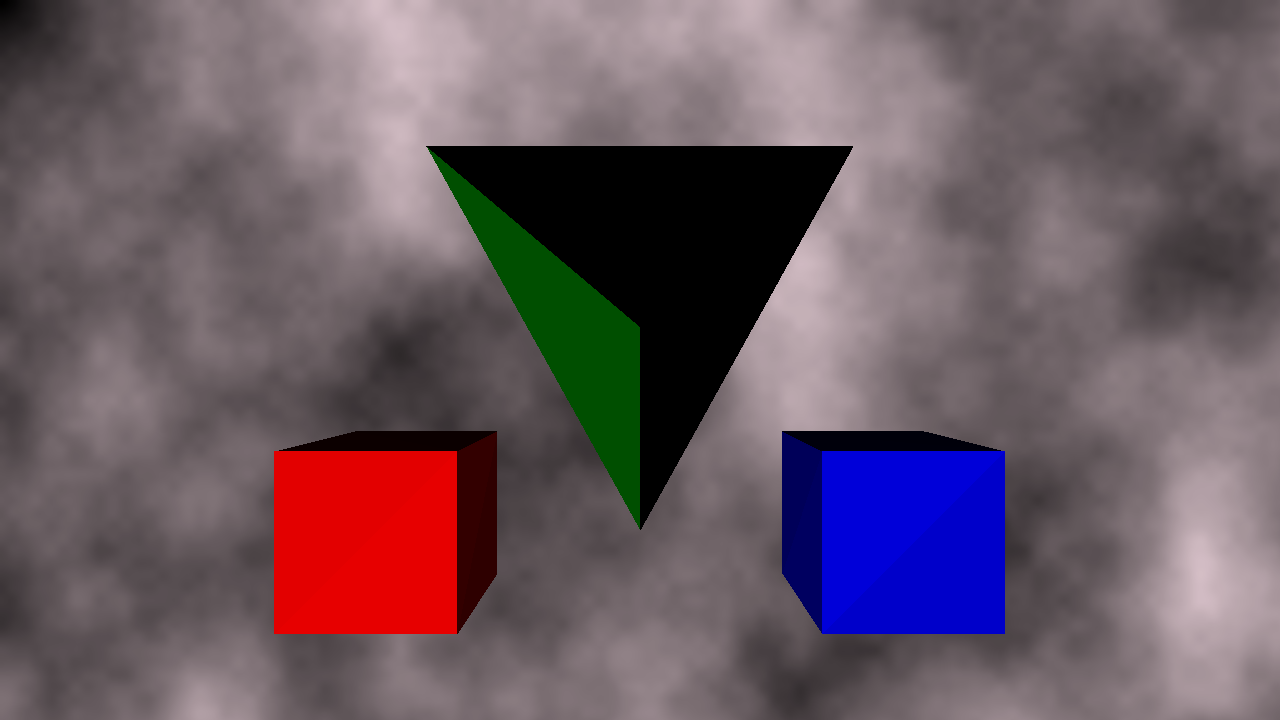
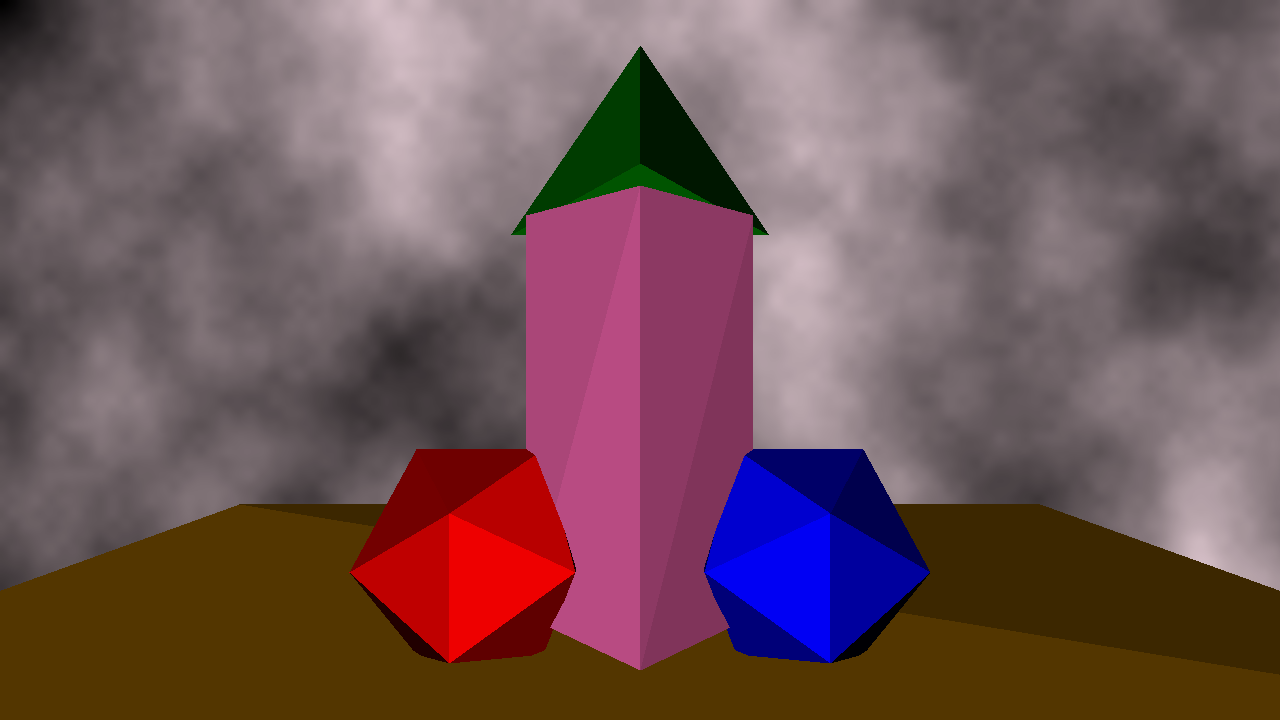
added dih

diff --git a/src/tests.c b/src/tests.c
@@ -3,6 +3,8 @@
 #include "color.h"
 #include "draw.h"
 #include "noise.h"
+#include "trans.h"
+#include "obj.h"
 
 void pink_shit(framebuffer *fb, mesh2 mesh)
 {
@@ -59,23 +61,53 @@ void blue_shit(framebuffer *fb, mesh2 mesh)
   drawTri2d(fb, mesh.tris[2], BLACK);
   fillTri2d(fb, mesh.tris[2], RGB(0, 59, 180));
 }
-  //   tri3 base[] = {
-  //       {{{-5.0f, -1.8f, 3.0f}, {-5.0f, -1.8f, 8.0f}, {5.0f, -1.8f, 3.0f}}},
-  //       {{{-5.0f, -1.8f, 8.0f}, {5.0f, -1.8f, 8.0f}, {5.0f, -1.8f, 3.0f}}}};
-  //   fillTri3d(&fb, &camera, base[0], HSV(220, 0.4f, 0.6f));
-  //   fillTri3d(&fb, &camera, base[1], HSV(220, 0.4f, 0.6f));
+//   tri3 base[] = {
+//       {{{-5.0f, -1.8f, 3.0f}, {-5.0f, -1.8f, 8.0f}, {5.0f, -1.8f, 3.0f}}},
+//       {{{-5.0f, -1.8f, 8.0f}, {5.0f, -1.8f, 8.0f}, {5.0f, -1.8f, 3.0f}}}};
+//   fillTri3d(&fb, &camera, base[0], HSV(220, 0.4f, 0.6f));
+//   fillTri3d(&fb, &camera, base[1], HSV(220, 0.4f, 0.6f));
 
-  //   tri3 tris[] = {
-  //       {{{3.0f, -1.8f, 5.0f}, {0.0f, 1.8f, 4.25f}, {-3.0f, -1.8f, 5.0f}}},
-  //       {{{-0.5f, -1.8f, 3.5f}, {0.0f, 1.8f, 4.25f}, {3.0f, -1.8f, 5.0f}}},
-  //       {{{-3.0f, -1.8f, 5.0f}, {0.0f, 1.8f, 4.25f}, {-0.5f, -1.8f, 3.5f}}},
-  //       {{{-0.5f, -1.8f, 3.5f}, {3.0f, -1.8f, 5.0f}, {-3.0f, -1.8f, 5.0f}}}};
-  //   mesh3 tetrahedron = {.tris = tris};
-  //   epic_3D_shit(&fb, &camera, tetrahedron, light);
+//   tri3 tris[] = {
+//       {{{3.0f, -1.8f, 5.0f}, {0.0f, 1.8f, 4.25f}, {-3.0f, -1.8f, 5.0f}}},
+//       {{{-0.5f, -1.8f, 3.5f}, {0.0f, 1.8f, 4.25f}, {3.0f, -1.8f, 5.0f}}},
+//       {{{-3.0f, -1.8f, 5.0f}, {0.0f, 1.8f, 4.25f}, {-0.5f, -1.8f, 3.5f}}},
+//       {{{-0.5f, -1.8f, 3.5f}, {3.0f, -1.8f, 5.0f}, {-3.0f, -1.8f, 5.0f}}}};
+//   mesh3 tetrahedron = {.tris = tris};
+//   epic_3D_shit(&fb, &camera, tetrahedron, light);
 
 void epic_3D_shit(framebuffer *fb, camera *camera, mesh3 mesh, vec3 light)
 {
   fillTri3d(fb, camera, mesh.tris[0], HSV(0, 0.49f, 0.67f));
   fillTri3d(fb, camera, mesh.tris[1], HSV(90, 0.60f, 0.67f));
   fillTri3d(fb, camera, mesh.tris[3], HSV(210, 0.70f, 0.67f));
+}
+
+void cock_n_balls(framebuffer *fb, camera *camera, vec3 light)
+{
+  fractal_fill(fb, HSV(340, 0.1f, 1.00f));
+  tri3 tris[] = {
+      {{{-5.0f, -1.8f, 3.0f}, {-5.0f, -1.8f, 8.0f}, {5.0f, -1.8f, 3.0f}}},
+      {{{-5.0f, -1.8f, 8.0f}, {5.0f, -1.8f, 8.0f}, {5.0f, -1.8f, 3.0f}}}};
+  mesh3 base = {.tris = tris, .count = sizeof(tris) / sizeof(tris[0])};
+  drawMesh3d(fb, camera, base, light, ORANGE);
+  mesh3 tip;
+  parse_obj("assets/tetra.obj", &tip);
+  moveMesh(&tip, 0.0, 0.9, 0);
+  rotateMeshEuler(&tip, 90, 0, 0);
+  drawMesh3d(fb, camera, tip, light, GREEN);
+  mesh3 cock;
+  parse_obj("assets/rectangle.obj", &cock);
+  moveMesh(&cock, 0, -0.6, 0);
+  rotateMeshEuler(&cock, 0, 45, 0);
+  drawMesh3d(fb, camera, cock, light, PINK);
+  mesh3 ball;
+  parse_obj("assets/icosphere.obj", &ball);
+  scaleMesh(&ball, 0.75, 0.75, 0.75);
+  moveMesh(&ball, -1, -1.2, 4);
+  drawMesh3d(fb, camera, ball, light, RED);
+  mesh3 ball_blue;
+  parse_obj("assets/icosphere.obj", &ball_blue);
+  scaleMesh(&ball_blue, 0.75, 0.75, 0.75);
+  moveMesh(&ball_blue, 1, -1.2, 4);
+  drawMesh3d(fb, camera, ball_blue, light, BLUE);
 }

diff --git a/src/trans.c b/src/trans.c
@@ -63,23 +63,10 @@ void moveMesh(mesh3 *mesh, float x_translate, float y_translate, float z_transla
   applyTransformation(mesh, matMove);
 }
 
-void rotateMesh(mesh3 *mesh, float attitude, float heading, float bank)
+void rotateMeshQuat(mesh3 *mesh, float w, float x, float y, float z)
 {
-
   vec3 centroid = getCentroid(mesh);
   moveMesh(mesh, -centroid.x, -centroid.y, -centroid.z);
-  float c1 = cosf(DEG_TO_RAD(heading) / 2);
-  float c2 = cosf(DEG_TO_RAD(bank) / 2);
-  float c3 = cosf(DEG_TO_RAD(attitude) / 2);
-  float s1 = sinf(DEG_TO_RAD(heading) / 2);
-  float s2 = sinf(DEG_TO_RAD(bank) / 2);
-  float s3 = sinf(DEG_TO_RAD(attitude) / 2);
-  float x, y, z, w;
-  w = c1 * c2 * c3 - s1 * s2 * s3;
-  x = c1 * c2 * s3 + s1 * s2 * c3;
-  y = s1 * c2 * c3 + c1 * s2 * s3;
-  z = c1 * s2 * c3 - s1 * c2 * s3;
-
   mat4 matRot = {0};
   matRot.m[0][0] = 1 - 2 * (y * y + z * z);
   matRot.m[0][1] = 2 * (x * y - w * z);
@@ -98,6 +85,28 @@ void rotateMesh(mesh3 *mesh, float attitude, float heading, float bank)
   moveMesh(mesh, centroid.x, centroid.y, centroid.z);
 }
 
+void rotateMeshEuler(mesh3 *mesh, float attitude, float heading, float bank)
+{
+  float c1 = cosf(DEG_TO_RAD(heading) / 2);
+  float c2 = cosf(DEG_TO_RAD(bank) / 2);
+  float c3 = cosf(DEG_TO_RAD(attitude) / 2);
+  float s1 = sinf(DEG_TO_RAD(heading) / 2);
+  float s2 = sinf(DEG_TO_RAD(bank) / 2);
+  float s3 = sinf(DEG_TO_RAD(attitude) / 2);
+  quat q;
+  q.w = c1 * c2 * c3 - s1 * s2 * s3;
+  q.x = c1 * c2 * s3 + s1 * s2 * c3;
+  q.y = s1 * c2 * c3 + c1 * s2 * s3;
+  q.z = c1 * s2 * c3 - s1 * c2 * s3;
+  rotateMeshQuat(mesh, q.w, q.x, q.y, q.z);
+}
+
 void scaleMesh(mesh3 *mesh, float x_scale, float y_scale, float z_scale)
 {
+  mat4 matScale = {0};
+  matScale.m[0][0] = x_scale;
+  matScale.m[1][1] = y_scale;
+  matScale.m[2][2] = z_scale;
+  matScale.m[3][3] = 1;
+  applyTransformation(mesh, matScale);
 }

diff --git a/src/main.c b/src/main.c
@@ -20,26 +20,8 @@ int main()
   init(&fb);
   camera camera;
   initCam(&camera);
-  fractal_fill(&fb, HSV(340, 0.1f, 1.00f));
   vec3 light = {-1.0f, -1.0f, 2.0f};
-  mesh3 tetrahedron;
-  parse_obj("assets/tetra.obj", &tetrahedron);
-  moveMesh(&tetrahedron, 0.0, 0.9, 0);
-  rotateMesh(&tetrahedron, 90, 0, 0);
-  drawMesh3d(&fb, &camera, tetrahedron, light, GREEN);
-  mesh3 cock;
-  parse_obj("assets/rectangle.obj", &cock);
-  moveMesh(&cock, 0, -0.6, 0);
-  rotateMesh(&cock, 0, 45, 0);
-  drawMesh3d(&fb, &camera, cock, light, PINK);
-  mesh3 cube;
-  parse_obj("assets/cube.obj", &cube);
-  moveMesh(&cube, -1, -1.2, 0);
-  drawMesh3d(&fb, &camera, cube, light, RED);
-  mesh3 cube_blue;
-  parse_obj("assets/cube.obj", &cube_blue);
-  moveMesh(&cube_blue, 1, -1.2, 0);
-  drawMesh3d(&fb, &camera, cube_blue, light, BLUE);
+  cock_n_balls(&fb, &camera, light);
   render(&fb);
   render_depth(&fb);
 }

diff --git a/src/draw.c b/src/draw.c
@@ -216,6 +216,11 @@ void fillTri3d(framebuffer *fb, camera *cam, tri3 tri, uint32_t color)
   printf("%f %f %f\n", o1.x, o1.y, o1.w);
   printf("%f %f %f\n", o2.x, o2.y, o2.w);
 
+  if (o0.w < cam->near || o1.w < cam->near || o2.w < cam->near){
+    printf("\nToo close too cam\n");
+    return;
+  }
+
   o0.x /= o0.w;
   o0.y /= o0.w;
   o0.z /= o0.w;

diff --git a/include/trans.h b/include/trans.h
@@ -4,7 +4,9 @@
 
 void moveMesh(mesh3 *mesh, float x_translate, float y_translate, float z_translate);
 
-void rotateMesh(mesh3 *mesh, float attitude, float heading, float bank);
+void rotateMeshEuler(mesh3 *mesh, float attitude, float heading, float bank);
+
+void rotateMeshQuat(mesh3 *mesh, float w, float x, float y, float z);
 
 void scaleMesh(mesh3 *mesh, float x_scale, float y_scale, float z_scale);
 

diff --git a/include/vecmath.h b/include/vecmath.h
@@ -4,6 +4,8 @@
 #define VEC3_TO_VEC4(v) ((vec4){(v).x, (v).y, (v).z, 1.0f})
 #define DEG_TO_RAD(x) x * 3.14159f / 180.0f
 
+typedef vec4 quat;
+
 vec3 vec3Add(vec3 A, vec3 B);
 
 vec3 vec3Sub(vec3 A, vec3 B);

diff --git a/include/tests.h b/include/tests.h
@@ -6,5 +6,6 @@ void green_shit(framebuffer *fb, mesh2 mesh);
 void pink_shit(framebuffer *fb, mesh2 mesh);
 void blue_shit(framebuffer *fb, mesh2 mesh);
 void epic_3D_shit(framebuffer *fb, camera *camera, mesh3 mesh, vec3 light);
+void cock_n_balls(framebuffer *fb, camera *camera, vec3 light);
 
 #endif